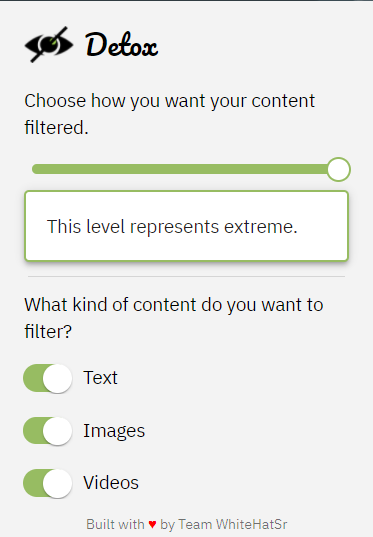
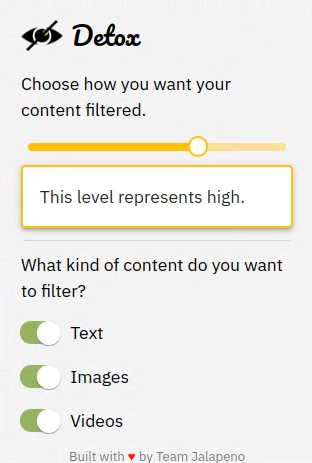
fix: docs links

diff --git a/src/popup.tsx b/src/popup.tsx
@@ -362,7 +362,7 @@ const Popup = () => {
                 {' '}
                 <span style={{ color: 'red' }}>♥</span>
                 {' '}
-                by Team WhiteHatSr
+                by Team Jalapeno
               </FormHelperText>
             </FormControl>
           </Grid>

diff --git a/README.md b/README.md
@@ -1,6 +1,6 @@
 <!-- PROJECT LOGO -->
 <p align="center">
-  <a href="/">
+  <a href="https://github.com/Team-Jalapeno/detox-chrome-extension/">
     <img src="./public/icon.png" alt="Logo" width="80">
   </a>
 
@@ -9,14 +9,14 @@
   <p align="center">
     Keep your browsing free from sensitive content.
     <br />
-    <a href="/"><strong>Explore the docs »</strong></a>
+    <a href="https://github.com/Team-Jalapeno/detox-chrome-extension/"><strong>Explore the docs »</strong></a>
     <br />
     <br />
-    <a href="/">View Demo</a>
+    <a href="https://github.com/Team-Jalapeno/detox-chrome-extension/">View Demo</a>
     ·
-    <a href="https://github.com/Team-WhiteHatSr/detox-chrome-extension/issues">Report Bug</a>
+    <a href="https://github.com/Team-Jalapeno/detox-chrome-extension/issues">Report Bug</a>
     ·
-    <a href="https://github.com/Team-WhiteHatSr/detox-chrome-extension/issues">Request Feature</a>
+    <a href="https://github.com/Team-Jalapeno/detox-chrome-extension/issues">Request Feature</a>
   </p>
 </p>
 
@@ -50,7 +50,7 @@
 
 On the chrome-extension popup, you can choose the strictness with which you want `Detox` to filter text and media on the webpage. You can also choose the type of content you want to filter by enabling/disabling switches on the extension. By default, text, images, and videos will be enabled.
 
-> `Detox` only uses Open-Source APIs and libraries. Image content detection is performed on the client-side. Text is sent to the server (the [source code](https://github.com/Team-WhiteHatSr/detox-backend) for which is also Open Source). However, the text sent to our servers is not stored and not linked to a user in any way.
+> `Detox` only uses Open-Source APIs and libraries. Image content detection is performed on the client-side. Text is sent to the server (the [source code](https://github.com/Team-Jalapeno/detox-backend) for which is also Open Source). However, the text sent to our servers is not stored and not linked to a user in any way.
 
 ### Built With
 
@@ -74,7 +74,7 @@ To get a local copy up and running follow these simple steps.
  
 1. Clone the repo.
 ```sh
-git clone https://github.com/Team-WhiteHatSr/detox-chrome-extension.git
+git clone https://github.com/Team-Jalapeno/detox-chrome-extension.git
 cd detox-chrome-extension
 ```
 2. Install NPM packages.
@@ -117,7 +117,7 @@ To stop the extension, move the slider to the extreme left, or toggle all the sw
 <!-- ROADMAP -->
 ## Roadmap
 
-See the [open issues](https://github.com/Team-WhiteHatSr/detox-chrome-extension/issues) for a list of proposed features (and known issues).
+See the [open issues](https://github.com/Team-Jalapeno/detox-chrome-extension/issues) for a list of proposed features (and known issues).
 
 
 
